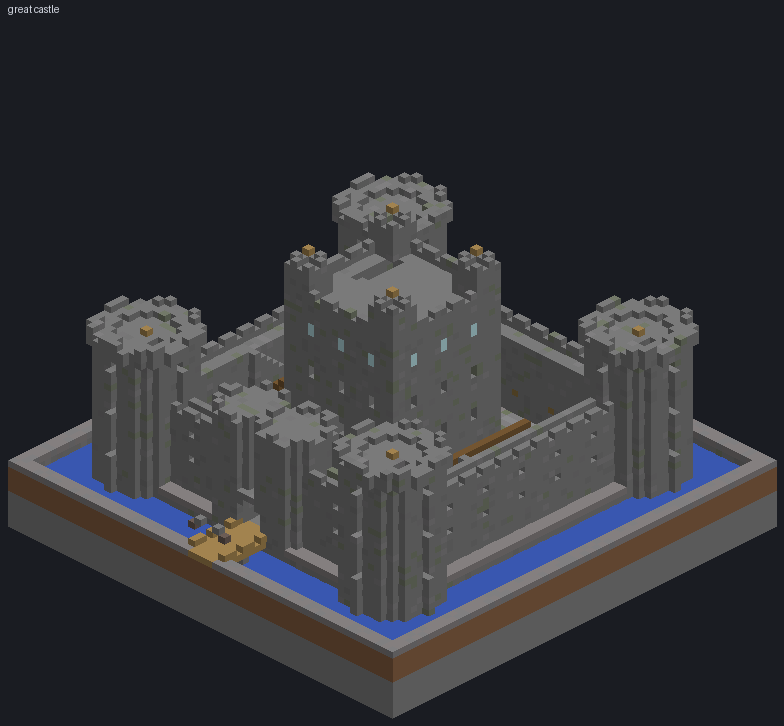
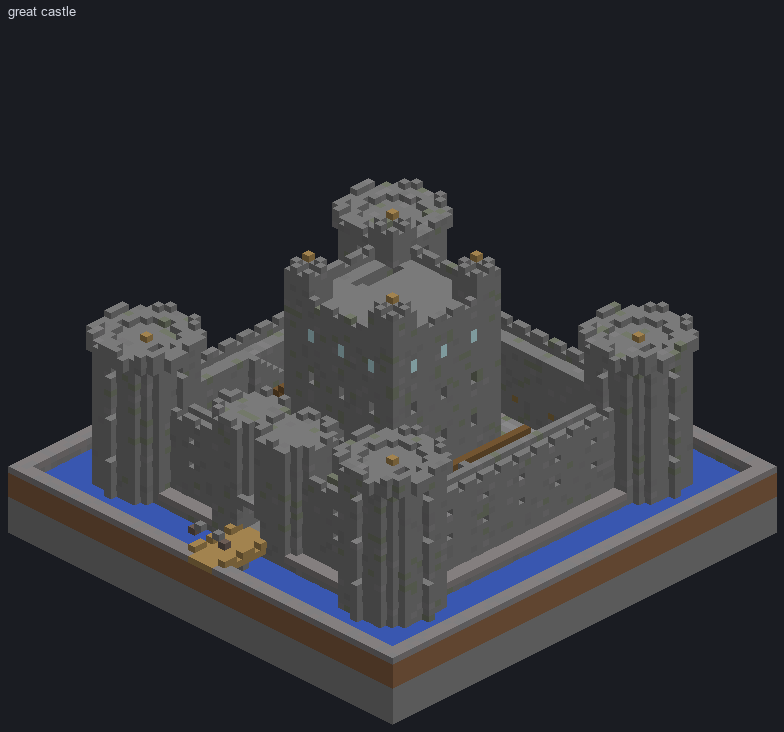
draw: one font for every image, and air the game carved
draw.py drew its labels in PIL's default bitmap font while render.py loaded a
real face for everything else, so a build render was the one worldsmith image
with unreadable text. One font helper now, in draw.py, which render.py imports.

read_box kept minecraft:cave_air and void_air, so `inspect --render` filled
every cave the build stands over with solid blocks and counted them as template
mismatches. _palette matched the exact name "air" while Grid.standing_spot
matched anything ending in air; both now agree.

unpack_heightmap hard coded 9 bit entries, which is only right for a world 256
to 512 tall. A 128 or 192 tall dimension, which the vendored nether and caves
presets are, crashed on the reshape; a 512 tall one read silently wrong values.

REJECTED and FADED held the same colour under two names.

diff --git a/worldsmith/draw.py b/worldsmith/draw.py
@@ -9,17 +9,25 @@ from __future__ import annotations
 from pathlib import Path
 
 import numpy as np
-from PIL import Image, ImageDraw
+from PIL import Image, ImageDraw, ImageFont
 
 from .colors import block_color
 from .voxel import Grid
 
 BACKGROUND = (26, 28, 34)
 KEPT = (255, 214, 102)
-REJECTED = (150, 156, 170)
+MUTED = (150, 156, 170)
 LABEL = (210, 214, 224)
-FADED = (150, 156, 170)
 FACE_SHADE = (1.0, 0.72, 0.55)          # top, right, front
+
+
+def font(size: int = 12):
+    for name in ("DejaVuSans.ttf", "arial.ttf", "segoeui.ttf"):
+        try:
+            return ImageFont.truetype(name, size)
+        except OSError:
+            continue
+    return ImageFont.load_default()
 
 
 def _palette(grid: Grid) -> tuple[dict[int, tuple[int, int, int]], set[int]]:
@@ -27,7 +35,7 @@ def _palette(grid: Grid) -> tuple[dict[int, tuple[int, int, int]], set[int]]:
     for index, spec in enumerate(grid.palette, start=1):
         name = spec.split("[")[0].split(":")[-1]
         colors[index] = block_color(name)
-        if name == "air":
+        if name.endswith("air"):        # cave_air and void_air are air too
             air.add(index)
     return colors, air
 
@@ -51,12 +59,12 @@ def render_iso(grid: Grid, path, scale: int = 4, turn: int = 0, label: str = "")
 
     sx, sy, sz = cells.shape
     w, h, v = scale, max(1, scale // 2), scale
-    pad, header = 8, 14 if label else 0
+    pad, header = 8, 20 if label else 0
     image = Image.new("RGB", ((sx + sz) * w + 2 * pad,
                               (sx + sz) * h + sy * v + 2 * pad + header), BACKGROUND)
     draw = ImageDraw.Draw(image)
     if label:
-        draw.text((pad, 3), label, fill=LABEL)
+        draw.text((pad, 4), label, fill=LABEL, font=font(13))
     ox, oy = sz * w + pad, pad + header + sy * v
 
     xs, ys, zs = np.nonzero(visible)
@@ -80,16 +88,16 @@ def render_plan(grid: Grid, path, levels: list[int], scale: int = 4,
                 label: str = "") -> Path:
     """Top down slices at the given heights: the floor plans."""
     colors, air = _palette(grid)
-    pad, header, gap = 6, 16, 10
+    pad, header, gap = 6, 38, 10
     tile_w, tile_h = grid.sx * scale, grid.sz * scale
     image = Image.new("RGB", (2 * pad + len(levels) * tile_w + (len(levels) - 1) * gap,
                               2 * pad + header + tile_h), BACKGROUND)
     draw = ImageDraw.Draw(image)
     if label:
-        draw.text((pad, 3), label, fill=LABEL)
+        draw.text((pad, 4), label, fill=LABEL, font=font(13))
     for i, level in enumerate(levels):
         ox = pad + i * (tile_w + gap)
-        draw.text((ox, header - 12), f"y={level}", fill=FADED)
+        draw.text((ox, header - 16), f"y={level}", fill=MUTED, font=font(12))
         plane = grid.cells[:, level, :]
         for x in range(grid.sx):
             for z in range(grid.sz):
@@ -104,13 +112,13 @@ def render_plan(grid: Grid, path, levels: list[int], scale: int = 4,
     return path
 
 
-def mark_builds(image, reports, x0: int, z0: int, step: int, scale: int):
+def mark_builds(image, reports, x0: int, z0: int, step: int, scale: int) -> None:
     """Outline where builds land on a rendered map.
 
     The map is drawn at `scale` pixels per `step` blocks, so a footprint in
     blocks becomes a rectangle in pixels. Sites the biome check rejects are
-    drawn faintly: seeing where a build nearly went is half of why the picture
-    is worth looking at.
+    drawn faintly, because seeing where a build nearly went is half of why the
+    picture is worth looking at.
     """
     draw = ImageDraw.Draw(image)
     for report in reports:
@@ -121,10 +129,9 @@ def mark_builds(image, reports, x0: int, z0: int, step: int, scale: int):
         pz1 = round((bz1 + 1 - z0) / step * scale) - 1
         if px1 < 0 or pz1 < 0 or px0 >= image.width or pz0 >= image.height:
             continue
-        colour = KEPT if report.accepted else REJECTED
+        colour = KEPT if report.accepted else MUTED
         if px1 - px0 < 3 or pz1 - pz0 < 3:
             draw.rectangle([px0 - 2, pz0 - 2, px0 + 2, pz0 + 2], outline=colour)
         else:
             draw.rectangle([px0, pz0, px1, pz1], outline=colour,
                            width=2 if report.accepted else 1)
-    return image

diff --git a/worldsmith/anvil.py b/worldsmith/anvil.py
@@ -69,23 +69,27 @@ def unpack_longs(packed: np.ndarray, bits: int, count: int) -> np.ndarray:
     return values.reshape(-1)[:count].astype(np.int64)
 
 
-def unpack_heightmap(packed: np.ndarray, bits: int = 9) -> np.ndarray:
-    return unpack_longs(packed, bits, 256).reshape(16, 16)          # [z][x]
+def unpack_heightmap(packed: np.ndarray, world_height: int = 384) -> np.ndarray:
+    """A chunk's heightmap, [z][x]. Entries are as wide as the world is tall, so
+    a dimension shorter or taller than the overworld packs them differently."""
+    bits = max(1, math.ceil(math.log2(world_height + 1)))
+    return unpack_longs(packed, bits, 256).reshape(16, 16)
 
 
 def _paletted(section: dict, key: str, count: int, side: int):
+    """A section's block or biome names, as (side, side, side) indexed [y][z][x]."""
     holder = section.get(key) or {}
     palette = [str(entry.get("Name") if isinstance(entry, dict) else entry)
                for entry in (holder.get("palette") or [])]
     if not palette:
-        return None, None
+        return None
     data = holder.get("data")
     if data is None or len(data) == 0:
         index = np.zeros(count, dtype=np.int64)
     else:
         bits = max(4 if key == "block_states" else 1, math.ceil(math.log2(len(palette))))
         index = unpack_longs(np.asarray(data), bits, count)
-    return np.array(palette, dtype=object)[index].reshape(side, side, side), palette
+    return np.array(palette, dtype=object)[index].reshape(side, side, side)
 
 
 def section_blocks(chunk: dict, lo: int, hi: int) -> dict[int, np.ndarray]:
@@ -95,7 +99,7 @@ def section_blocks(chunk: dict, lo: int, hi: int) -> dict[int, np.ndarray]:
         base = int(section.get("Y", 0)) * 16
         if base > hi or base + 15 < lo:
             continue
-        names, _ = _paletted(section, "block_states", 4096, 16)
+        names = _paletted(section, "block_states", 4096, 16)
         if names is None:
             continue
         for dy in range(16):
@@ -110,7 +114,7 @@ def biome_at(chunk: dict, x: int, y: int, z: int) -> str | None:
         base = int(section.get("Y", 0)) * 16
         if not (base <= y < base + 16):
             continue
-        names, _ = _paletted(section, "biomes", 64, 4)
+        names = _paletted(section, "biomes", 64, 4)
         if names is None:
             return None
         return str(names[(y - base) // 4][(z & 15) // 4][(x & 15) // 4])
@@ -156,6 +160,9 @@ def read_box(world: Path, x0: int, z0: int, x1: int, z1: int, y0: int, y1: int) 
     """The blocks in a box of the world, as a Grid the previewer can draw."""
     grid = Grid(x1 - x0 + 1, y1 - y0 + 1, z1 - z0 + 1)
     known, _ = block_states()
+    # cave_air and void_air are air the game carved, and drawing them as blocks
+    # would fill every cave the build stands over
+    air = ("minecraft:air", "minecraft:cave_air", "minecraft:void_air")
     for path in sorted(region_dir(world).glob("*.mca")):
         rx, rz = (int(part) for part in path.stem.split(".")[1:3])
         if not (rx * 512 <= x1 and rx * 512 + 511 >= x0
@@ -165,15 +172,13 @@ def read_box(world: Path, x0: int, z0: int, x1: int, z1: int, y0: int, y1: int) 
             bx, bz = cx * 16, cz * 16
             if bx > x1 or bx + 15 < x0 or bz > z1 or bz + 15 < z0:
                 continue
+            xs = range(max(0, x0 - bx), min(16, x1 - bx + 1))
+            zs = range(max(0, z0 - bz), min(16, z1 - bz + 1))
             for y, plane in section_blocks(chunk, y0, y1).items():
-                for dz in range(16):
-                    wz = bz + dz
-                    if not z0 <= wz <= z1:
-                        continue
-                    for dx in range(16):
-                        wx = bx + dx
+                for dz in zs:
+                    for dx in xs:
                         name = str(plane[dz][dx])
-                        if not x0 <= wx <= x1 or name == "minecraft:air" or name not in known:
+                        if name in air or name not in known:
                             continue
-                        grid.set(wx - x0, y - y0, wz - z0, name)
+                        grid.set(bx + dx - x0, y - y0, bz + dz - z0, name)
     return grid

diff --git a/tests/test_engine.py b/tests/test_engine.py
@@ -524,7 +524,9 @@ def test_clay_bands_against_the_game():
 
 
 def test_packs_generate():
-    packs = sorted(p for p in (Path(ROOT) / "packs").iterdir() if (p / "pack.mcmeta").is_file())
+    # the verification tools leave scratch packs behind; those are not the suite's
+    packs = sorted(p for p in (Path(ROOT) / "packs").iterdir()
+                   if (p / "pack.mcmeta").is_file() and not p.name.startswith("_"))
     check("there are packs to test", bool(packs))
     for pack in packs:
         _, findings = validate_path(pack)
@@ -1187,7 +1189,7 @@ def test_build_overlay_and_determinism():
     build actually is, in map pixels rather than blocks."""
     from PIL import Image
 
-    from worldsmith.draw import KEPT, REJECTED, mark_builds
+    from worldsmith.draw import KEPT, MUTED, mark_builds
     from worldsmith.placement import Site, SiteReport
     from worldsmith.voxel import Grid
 
@@ -1223,7 +1225,7 @@ def test_build_overlay_and_determinism():
 
     faint = Image.new("RGB", (128, 128), (0, 0, 0))
     mark_builds(faint, [report((64, 32, 95, 63), False)], x0=0, z0=0, step=4, scale=2)
-    check("a rejected site is drawn differently", faint.load()[32, 16] == REJECTED,
+    check("a rejected site is drawn differently", faint.load()[32, 16] == MUTED,
           str(faint.load()[32, 16]))
 
     off = Image.new("RGB", (128, 128), (0, 0, 0))

diff --git a/worldsmith/render.py b/worldsmith/render.py
@@ -10,10 +10,11 @@ Four views, because they answer different questions:
 from __future__ import annotations
 
 import numpy as np
-from PIL import Image, ImageDraw, ImageFont
+from PIL import Image, ImageDraw
 
 from .canopy import (COLORMAPPED_LEAVES, SOIL, canopy_field, canopy_for, canopy_mottle,
                      cover_cutoff)
+from .draw import font as _font
 from .colors import (biome_color, block_color, foliage_color, grass_color, palette_rgb,
                      parse_hex)
 from .scene import Scene, biome_climate_table
@@ -215,15 +216,6 @@ def render_section(world: World, x0: int, z: int, length: int, scale: int = 2,
 
     img = Image.fromarray(np.clip(rgb[::-1], 0, 255).astype(np.uint8), "RGB")
     return _upscale(img, scale)
-
-
-def _font(size: int = 12):
-    for name in ("DejaVuSans.ttf", "arial.ttf", "segoeui.ttf"):
-        try:
-            return ImageFont.truetype(name, size)
-        except OSError:
-            continue
-    return ImageFont.load_default()
 
 
 def contact_sheet(images: list[tuple[str, Image.Image]], columns: int = 2,

diff --git a/tools/verify_in_game.py b/tools/verify_in_game.py
@@ -187,7 +187,7 @@ def compare(world_dir: Path, pack: Path, seed: int, sample: int = 0) -> int:
             packed = (nbt.get("Heightmaps") or {}).get("OCEAN_FLOOR")
             if packed is None or len(packed) == 0:
                 continue
-            game = unpack_heightmap(np.asarray(packed)) + engine.noise.min_y
+            game = unpack_heightmap(np.asarray(packed), engine.noise.height) + engine.noise.min_y
             terrain = sample_terrain(engine, cx * 16, cz * 16, 16, 16, step=1)
             # OCEAN_FLOOR stores the y of the first non-solid block, relative to min_y
             mine = terrain.surface_y + 1
